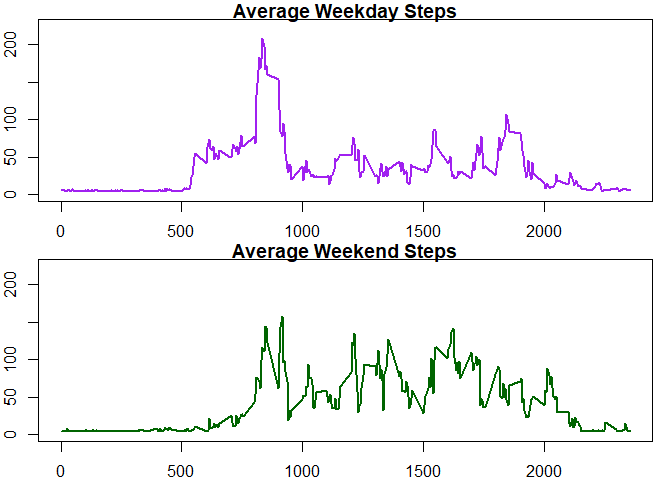
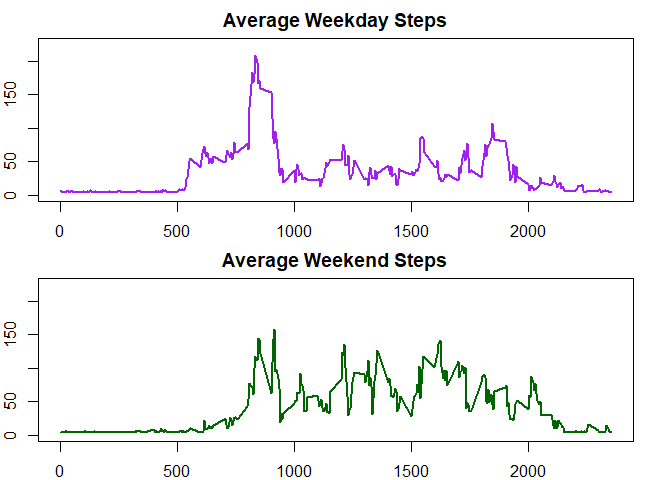
another update

diff --git a/PA1_template.md b/PA1_template.md
@@ -42,8 +42,9 @@ are a total of 17,568 observations in this dataset.
     pathdata <- "./"
     list.files("./")
 
-    ## [1] "activity.csv"     "activity.zip"     "finalActivity.R" 
-    ## [4] "PA1_template.Rmd"
+    ## [1] "activity.csv"       "activity.zip"       "doc"               
+    ## [4] "finalActivity.R"    "instructions_fig"   "PA1_template.html" 
+    ## [7] "PA1_template.md"    "PA1_template.Rmd"   "PA1_template_files"
 
     # read data
     activityData <- fread("activity.csv",na.strings = c("NA"))
@@ -279,7 +280,7 @@ weekends?
 
     # plot weekdays
     par(mfrow=c(2,1))
-    par(mar=c(2,2,1,1))
+    par(mar=c(2,2,2,2))
     plot(stepsWD$interval,stepsWD$imputedMeanSteps, type = "l",
          lwd = 2, ylim = c(0,225), main = "Average Weekday Steps",
          ylab = " Average Number of Steps", xlab = "Interval", col = "purple")
